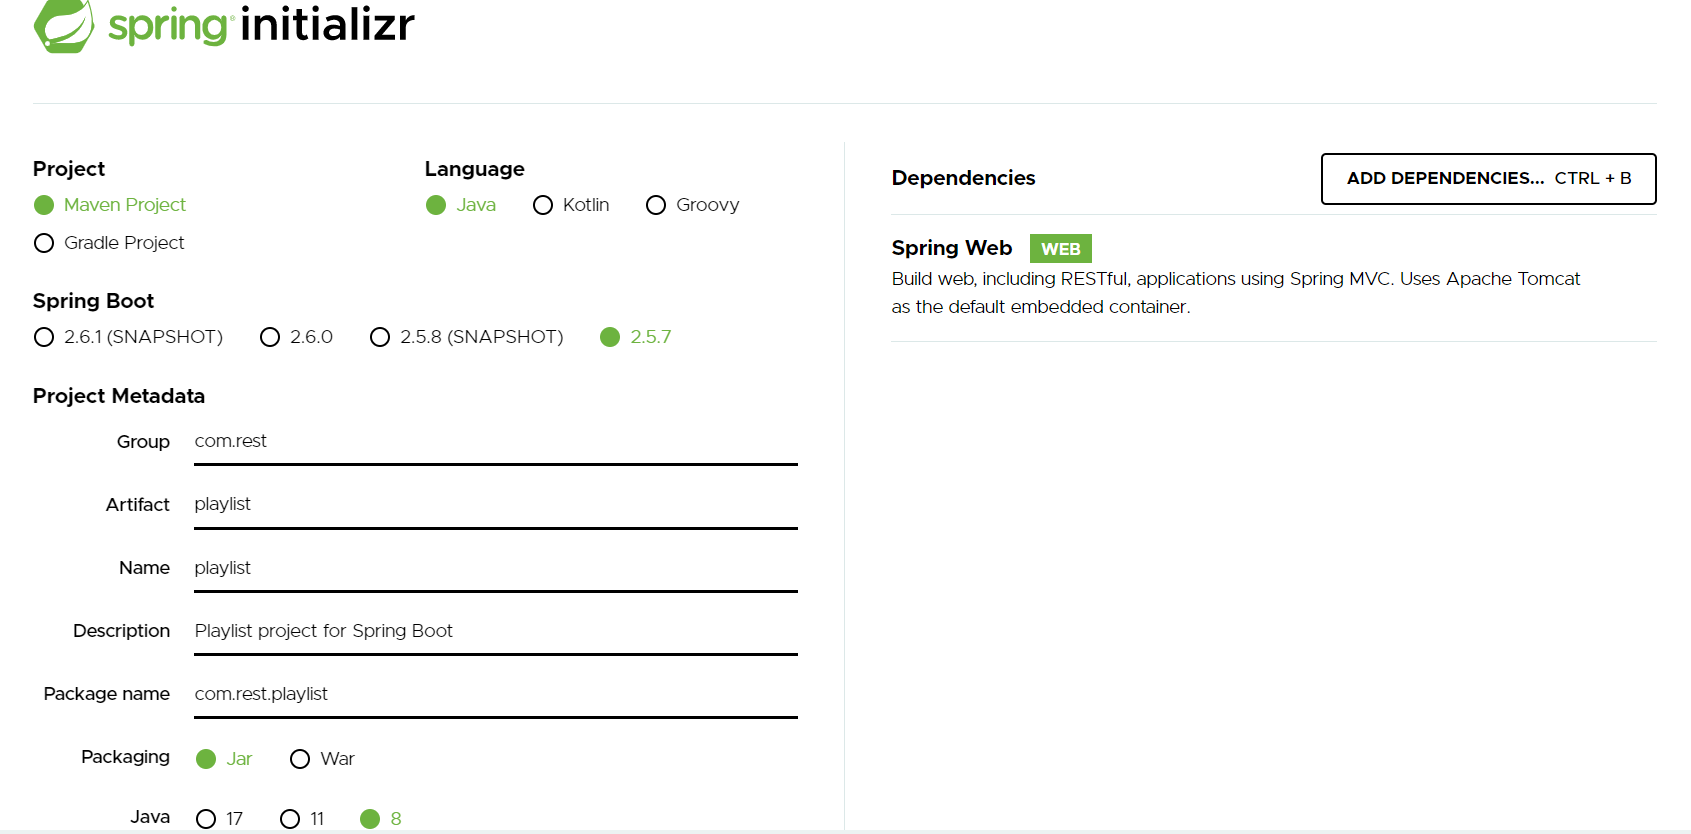
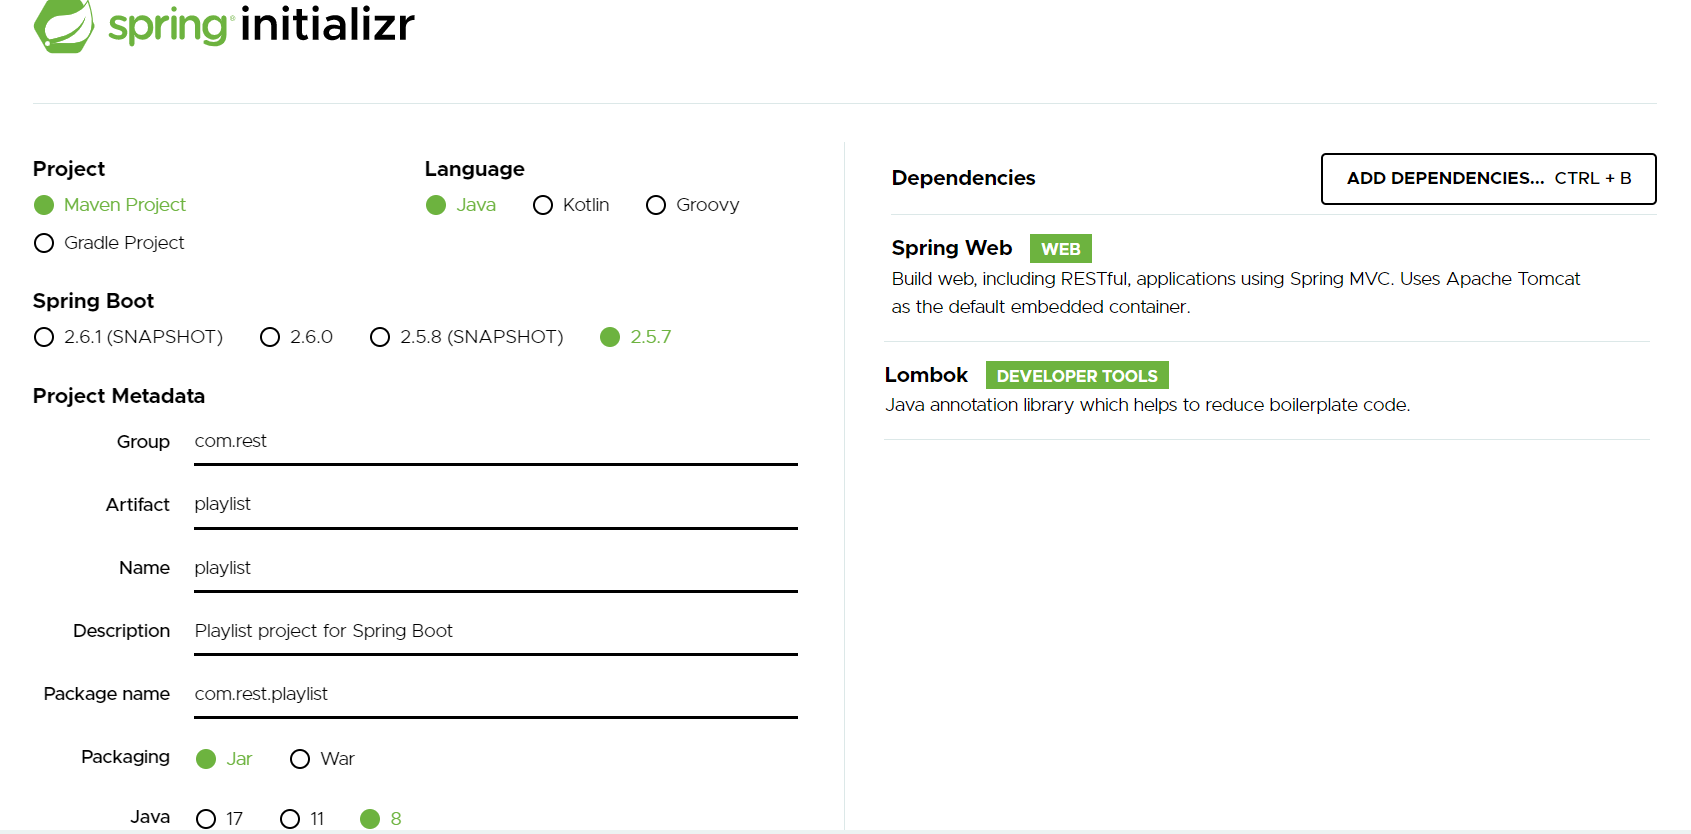
edit README.md

Changed region(s): [[0.5228, 0.4053, 0.8303, 0.4988]]

diff --git a/README.md b/README.md
@@ -32,12 +32,13 @@ Un client lance une requête HTTP, et le serveur renvoie une réponse à travers
 * Java 8
 * IDE Intellij IDEA
 * Spring Boot 2.5.7 (avec Spring Web MVC)
+* Lombok 1.18.22
 * Maven 4.0.0
 
 ## I. Initialisation du projet
 Pour amorcer une application Spring Boot , nous pouvons démarrer le projet à partir de zéro avec notre IDE préféré, ou simplement utiliser un autre moyen qui facilite la vie : [SpringInitializr](https://start.spring.io/)
 
-Initialement, nous avons choisi la dépendance Spring web.
+Initialement, nous avons choisi la dépendance Spring web et lombok.
 
 ![Screenshot](src/main/resources/images/springInitializr.png)
 
@@ -1077,6 +1078,20 @@ public class SongServiceTest {
         playlistService.deleteSongById(songToDelete.getId());
 
         assertThat(playlistList.size()).isEqualTo(sizeBeforeDelete - 1);
+    }
+}
+```
+
+La classe **TestUtils** contient une méthode qui sert à convertir un objet Json en une chaîne de caractère.
+```java
+
+public class TestUtils {
+    public static String asJsonString(final Object obj) {
+        try {
+            return new ObjectMapper().writeValueAsString(obj);
+        } catch (Exception e) {
+            throw new RuntimeException(e);
+        }
     }
 }
 ```
